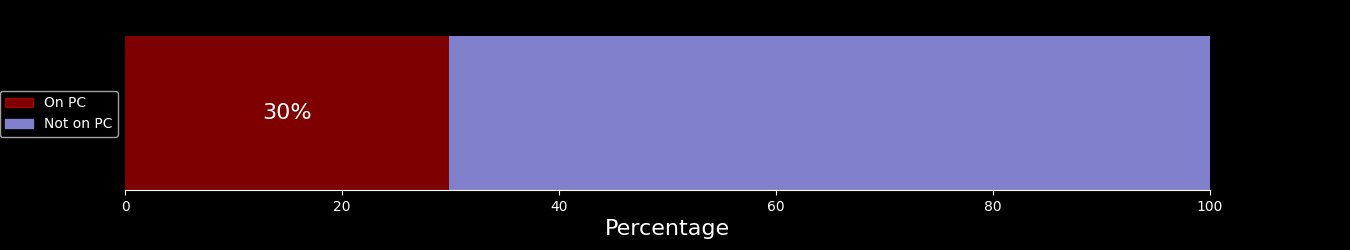
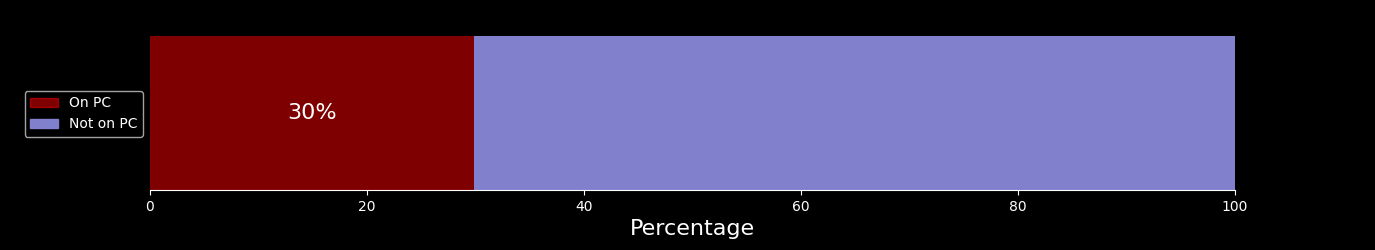
fix spacing

diff --git a/Pi/readme/visualisation.py b/Pi/readme/visualisation.py
@@ -138,7 +138,7 @@ def percentage_plot(df, is_pi, color):
     plt.xlabel('Percentage', fontsize=16)
     handles = [plt.Rectangle((0, 0), 1, 1, color=COLORS[label]) for label in LABELS]
     plt.legend(handles, LABELS, bbox_to_anchor=(0, 0.06), loc="lower right")
-    plt.savefig(f"graphs/barplot/{color}-plot-{df['Timestamp'].min().strftime('%Y-%m-%d')}.png", bbox_inches=Bbox([[0.5, 0.5], [14, 3]]))
+    plt.savefig(f"graphs/barplot/{color}-plot-{df['Timestamp'].min().strftime('%Y-%m-%d')}.png", bbox_inches=Bbox([[0.25, 0.5], [14, 3]]))
     if not is_pi:
         plt.show()
 
